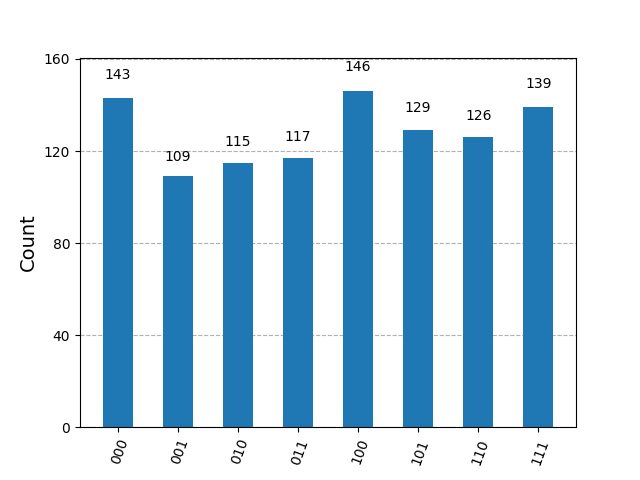
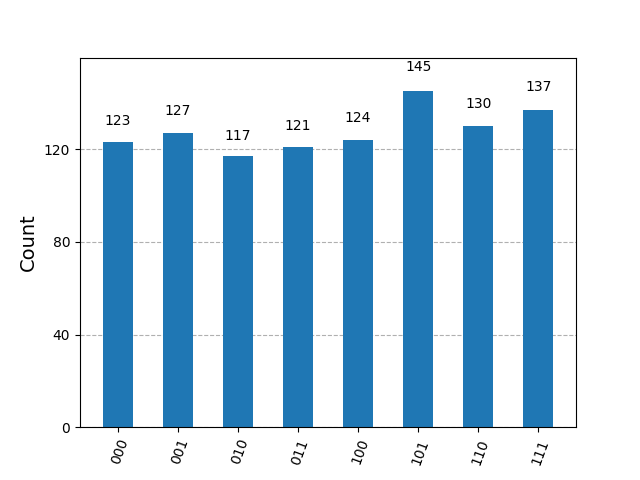
added task 04 02 03

diff --git a/stories/story04/040203.py b/stories/story04/040203.py
@@ -1,0 +1,91 @@
+import os
+from qiskit import QuantumCircuit, transpile
+from qiskit_aer import AerSimulator
+from qiskit.visualization import plot_histogram
+
+# Function to run a quantum circuit multiple times and collect statistics
+def run_circuit_multiple_times(qc, simulator, shots=1024, num_runs=5):
+    """Run a quantum circuit multiple times and collect counts statistics."""
+    all_counts = []
+    for _ in range(num_runs):
+        compiled_circuit = transpile(qc, simulator)
+        result = simulator.run(compiled_circuit, shots=shots).result()
+        counts = result.get_counts(qc)
+        all_counts.append(counts)
+    return all_counts
+
+# Use AerSimulator for simulation
+simulator = AerSimulator()
+
+# 현재 스크립트가 실행되는 디렉토리를 기준으로 "result" 폴더 경로 설정
+base_dir = os.path.dirname(os.path.abspath(__file__))
+result_dir = os.path.join(base_dir, "result")
+
+# Function to create a quantum circuit with n qubits in a given initial state.
+# initial_state should be a string of length n, e.g., "000" or "111".
+def create_quantum_circuit(n, initial_state):
+    qc = QuantumCircuit(n, n)  # n 큐비트, n 클래식 비트
+    # 각 큐비트에 대해 초기 상태 결정: '1'이면 X 게이트 적용
+    for i, state in enumerate(initial_state):
+        if state == '1':
+            qc.x(i)
+    qc.measure(range(n), range(n))  # 모든 큐비트를 측정
+    return qc
+
+# Helper function to save histogram plots into designated folder
+def save_histogram_plot(plot_obj, folder_name, run_number, prefix=""):
+    folder = os.path.join(result_dir, folder_name)
+    os.makedirs(folder, exist_ok=True)  # 폴더가 없으면 생성
+    filename = f"{prefix}run_{run_number}.png" if prefix else f"run_{run_number}.png"
+    file_path = os.path.join(folder, filename)
+    plot_obj.savefig(file_path)
+    print(f"Saved: {file_path}")
+
+# Example usage: Create circuits for n qubits
+n = 3  # Number of qubits
+
+# 04.02.01: Basic circuit creation with initial states "000" and "111"
+initial_states = ['0' * n, '1' * n]
+for state in initial_states:
+    qc = create_quantum_circuit(n, state)
+    counts = run_circuit_multiple_times(qc, simulator)
+    for i, counts_run in enumerate(counts, start=1):
+        # 저장할 폴더: result/measurement_results_<state>/
+        save_histogram_plot(
+            plot_histogram(counts_run),
+            folder_name=f"measurement_results_{state}",
+            run_number=i
+        )
+        print(f"Measurement results for initial state {state}, run {i}: {counts_run}")
+
+# 04.02.02: Implement parallel gates – Applying Hadamard gates to all qubits in parallel
+qc_parallel = QuantumCircuit(n, n)
+qc_parallel.h(range(n))  # 모든 큐비트에 동시에 Hadamard 게이트 적용
+qc_parallel.measure(range(n), range(n))
+counts_parallel = run_circuit_multiple_times(qc_parallel, simulator)
+for i, counts_run in enumerate(counts_parallel, start=1):
+    # 저장할 폴더: result/parallel_hadamard/
+    save_histogram_plot(
+        plot_histogram(counts_run),
+        folder_name="parallel_hadamard",
+        run_number=i
+    )
+    print(f"Measurement results for parallel Hadamard gates, run {i}: {counts_run}")
+
+# 04.02.03: Add multi-qubit measurement - Can measure all qubits simultaneously
+# 이 섹션에서는 별다른 게이트 없이(또는 예시로 일부 게이트 적용 후) 모든 큐비트를 동시에 측정합니다.
+qc_multi = QuantumCircuit(n, n)
+# (예시) 첫 번째 큐비트에는 X 게이트, 나머지 큐비트에는 H 게이트 적용하여 상태를 다양하게 만들어봅니다.
+qc_multi.x(0)
+if n > 1:
+    qc_multi.h(range(1, n))
+qc_multi.measure(range(n), range(n))
+counts_multi = run_circuit_multiple_times(qc_multi, simulator)
+for i, counts_run in enumerate(counts_multi, start=1):
+    # 저장할 폴더: result/multi_qubit_measurement/
+    save_histogram_plot(
+        plot_histogram(counts_run),
+        folder_name="multi_qubit_measurement",
+        run_number=i
+    )
+    print(f"Measurement results for multi-qubit measurement, run {i}: {counts_run}")
